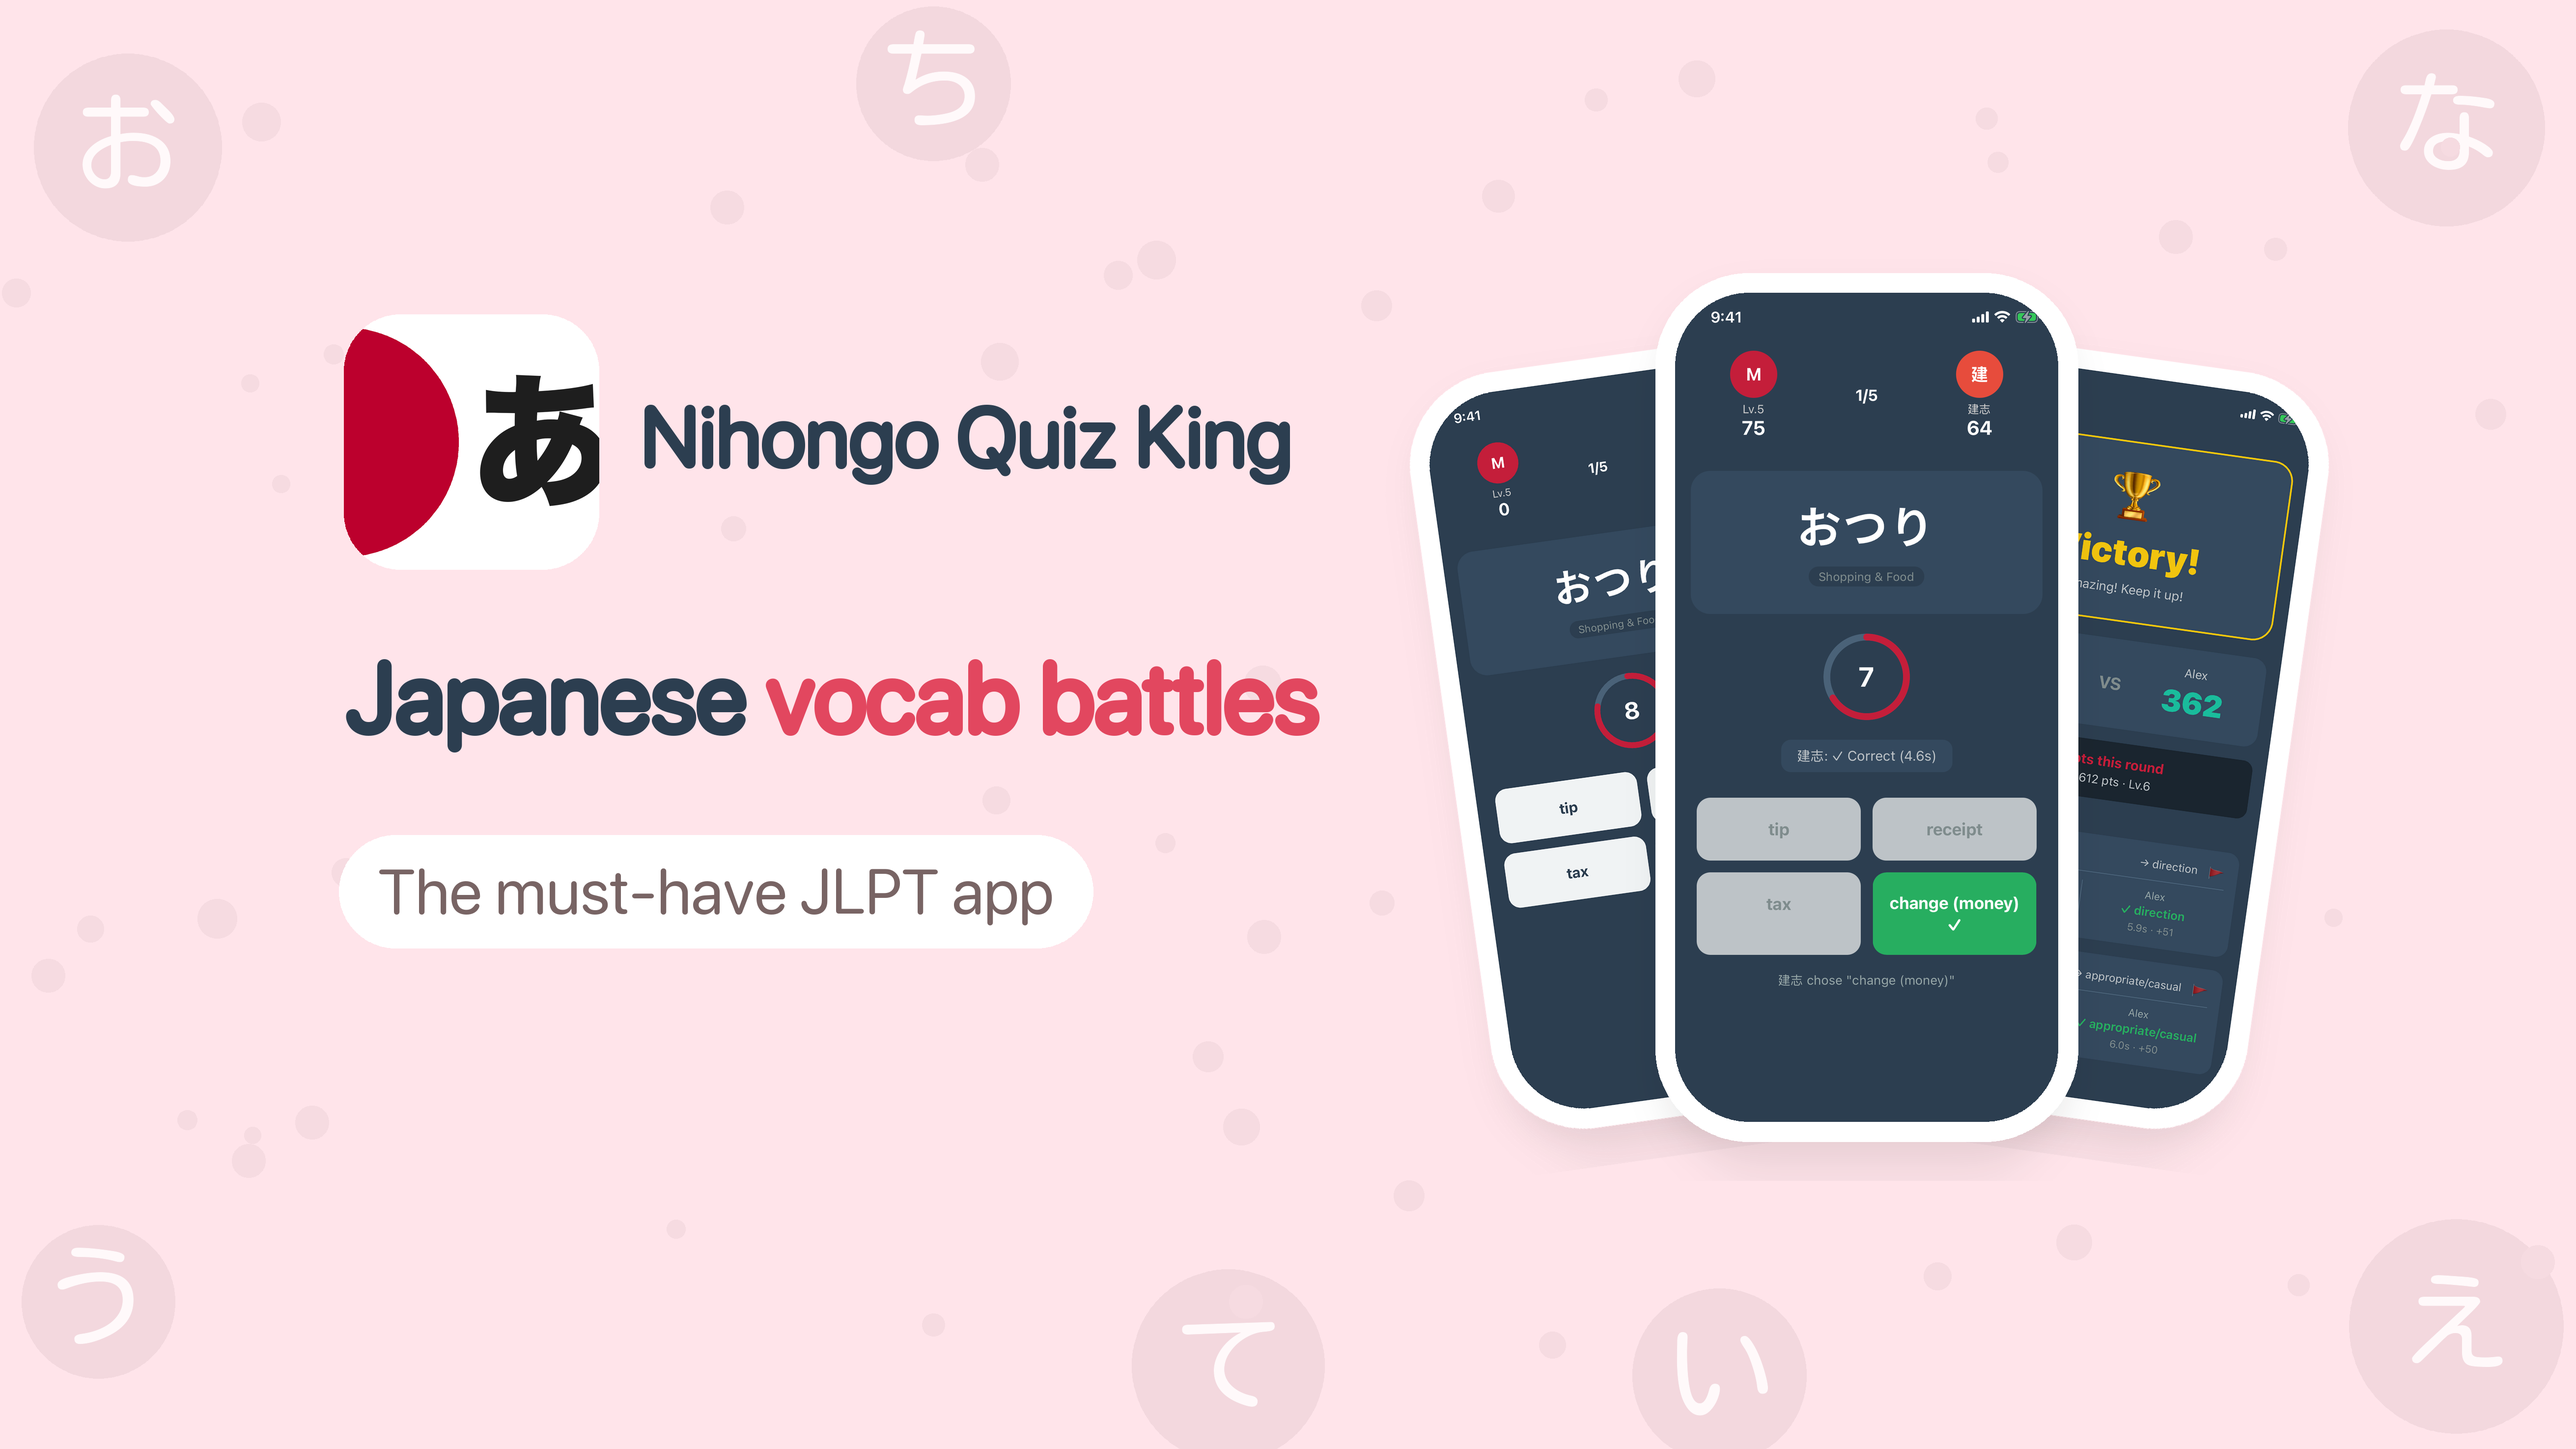
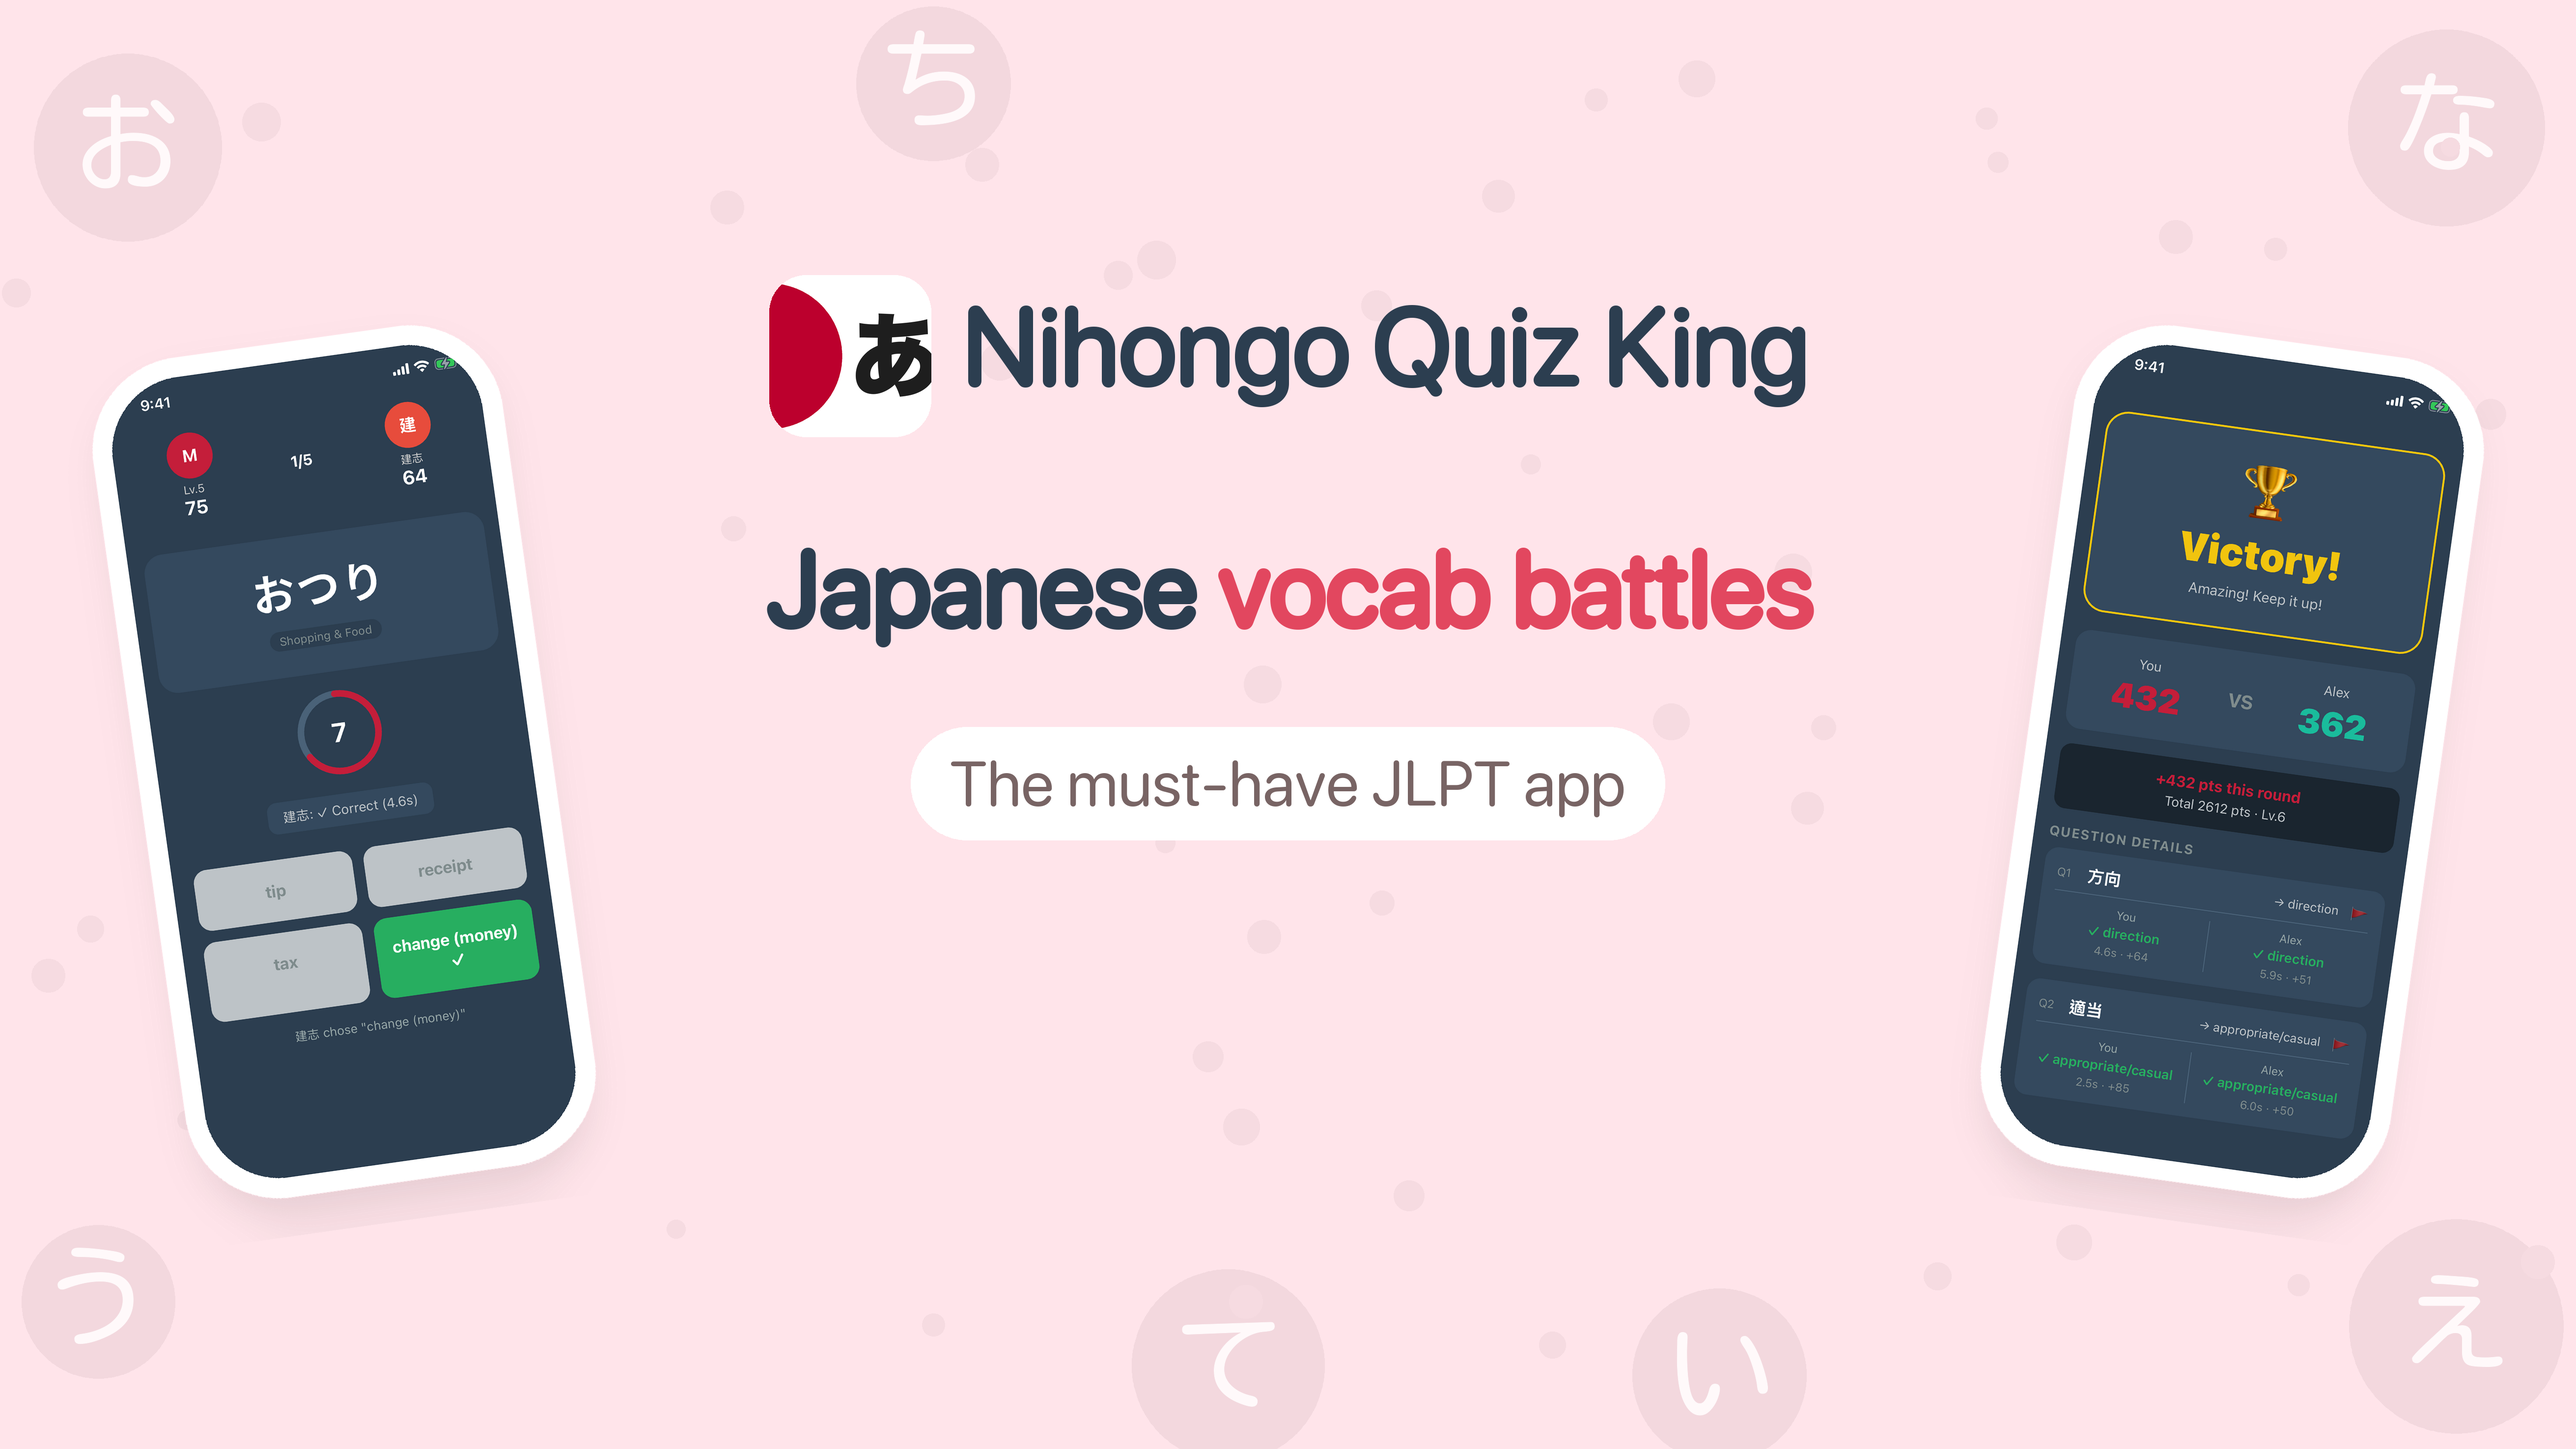
appstore: centre the creative header so iPhone shows it whole
On an iPhone 17 the header showed only the middle ~55% of the asset, which
cut the icon and headline. Text and icon now sit in the centre; the phone
shots at the sides are decoration.

diff --git a/scripts/compose_appstore_header.py b/scripts/compose_appstore_header.py
@@ -7,9 +7,12 @@ Usage:
 - zh_font: jf open 粉圓 (see compose_appstore_screenshots.py for the download link)
 - Writes <out_dir>/{zh,en}/header_universal_5244x2950.png and header_3840x1646.png
 
-Safe area: the universal 16:9 asset is cropped to ~2.33:1 for the header (top and
-bottom ~12% cut) and to ~3:2 for search results (left and right ~8% cut), so all
-text and the icon stay inside the central 4400 x 2200 px.
+Safe area: the universal 16:9 asset is cropped to ~2.33:1 for the wide header
+(top and bottom ~12% cut) and ~3:2 for search results (left and right ~8% cut).
+On an iPhone (checked on an iPhone 17, 2026-10) the header shows only the middle
+~55% of the width, from the top down to ~63% of the height, with the back and
+share buttons over the top corners. So the text and icon stay in x 1500-3750,
+y 450-1850; the phones at the sides are decoration.
 """
 import os
 import random
@@ -86,37 +89,44 @@ for lang, (name, head, sub) in TEXT.items():
     bubbles(canvas)
     d = ImageDraw.Draw(canvas)
 
-    # left block: icon, app name, headline, subline (inside the safe area)
-    icon = Image.open(ICON).convert('RGBA').resize((520, 520), Image.LANCZOS)
-    m = Image.new('L', icon.size, 0)
-    rrect(ImageDraw.Draw(m), [0, 0, 519, 519], 115, 255)
-    x0 = 700
-    canvas.paste(icon, (x0, 640), m)
-    nsize = 200
-    while d.textsize(name, font=font(lang, nsize))[0] > 1350:
+    # centre block: icon + name, headline, subline. All of it stays inside
+    # x 1500-3750, y 450-1850, the part every crop shows (iPhone shows only the
+    # middle ~55% of the width, from the top; wide header and search crop more).
+    cx = W // 2
+    nsize = 230
+    while d.textsize(name, font=font(lang, nsize))[0] > 1750:
         nsize -= 5
-    d.text((x0 + 600, 900 - nsize * 0.7), name, font=font(lang, nsize), fill=NAVY, stroke_width=4, stroke_fill=NAVY)
-    # shrink the headline until it ends before the phones (x ~2750)
-    size = 250
+    nf = font(lang, nsize)
+    nw, nh = d.textsize(name, font=nf)
+    isz = 330
+    icon = Image.open(ICON).convert('RGBA').resize((isz, isz), Image.LANCZOS)
+    m = Image.new('L', icon.size, 0)
+    rrect(ImageDraw.Draw(m), [0, 0, isz - 1, isz - 1], 75, 255)
+    gx = cx - (isz + 60 + nw) // 2
+    canvas.paste(icon, (gx, 560), m)
+    d.text((gx + isz + 60, 560 + isz / 2 - nh * 0.62), name, font=nf, fill=NAVY, stroke_width=4, stroke_fill=NAVY)
+
+    size = 240
     while True:
         hf = font(lang, size)
-        if sum(d.textsize(p, font=hf)[0] for p in head) <= 2000 or size <= 120:
+        widths = [d.textsize(p, font=hf)[0] for p in head]
+        if sum(widths) <= 2150 or size <= 120:
             break
         size -= 5
-    x = x0
-    for part, col in zip(head, (NAVY, RED)):
-        d.text((x, 1290), part, font=hf, fill=col, stroke_width=6, stroke_fill=col)
-        x += d.textsize(part, font=hf)[0]
+    x = cx - sum(widths) / 2
+    for part, w_, col in zip(head, widths, (NAVY, RED)):
+        d.text((x, 1060), part, font=hf, fill=col, stroke_width=6, stroke_fill=col)
+        x += w_
     sf = font(lang, 130)
     sw = d.textsize(sub, font=sf)[0]
-    rrect(d, [x0 - 10, 1700, x0 + sw + 150, 1930], 115, (255, 255, 255))
-    d.text((x0 + 70, 1735), sub, font=sf, fill=SUBTXT)
+    rrect(d, [cx - sw / 2 - 80, 1480, cx + sw / 2 + 80, 1710], 115, (255, 255, 255))
+    d.text((cx - sw / 2, 1515), sub, font=sf, fill=SUBTXT)
 
-    # right block: three phones fanned out, kept inside the central height
-    shots = [os.path.join(RAW, lang, f'{n}.png') for n in ('battle1', 'correct', 'result')]
-    for path, cx, cy, ang, wd in [(shots[2], 4280, 1500, -8, 680), (shots[0], 3330, 1500, 8, 680), (shots[1], 3800, 1440, 0, 780)]:
+    # phones on both sides: decoration only, fine if a crop cuts them
+    shots = {n: os.path.join(RAW, lang, f'{n}.png') for n in ('battle1', 'correct', 'result')}
+    for path, px, py, ang, wd in [(shots['correct'], 700, 1550, 8, 760), (shots['result'], 4544, 1550, -8, 760)]:
         t = phone(path, wd, ang)
-        canvas.paste(t, (cx - t.width // 2, cy - t.height // 2), t)
+        canvas.paste(t, (px - t.width // 2, py - t.height // 2), t)
 
     out = os.path.join(OUT, lang)
     os.makedirs(out, exist_ok=True)
